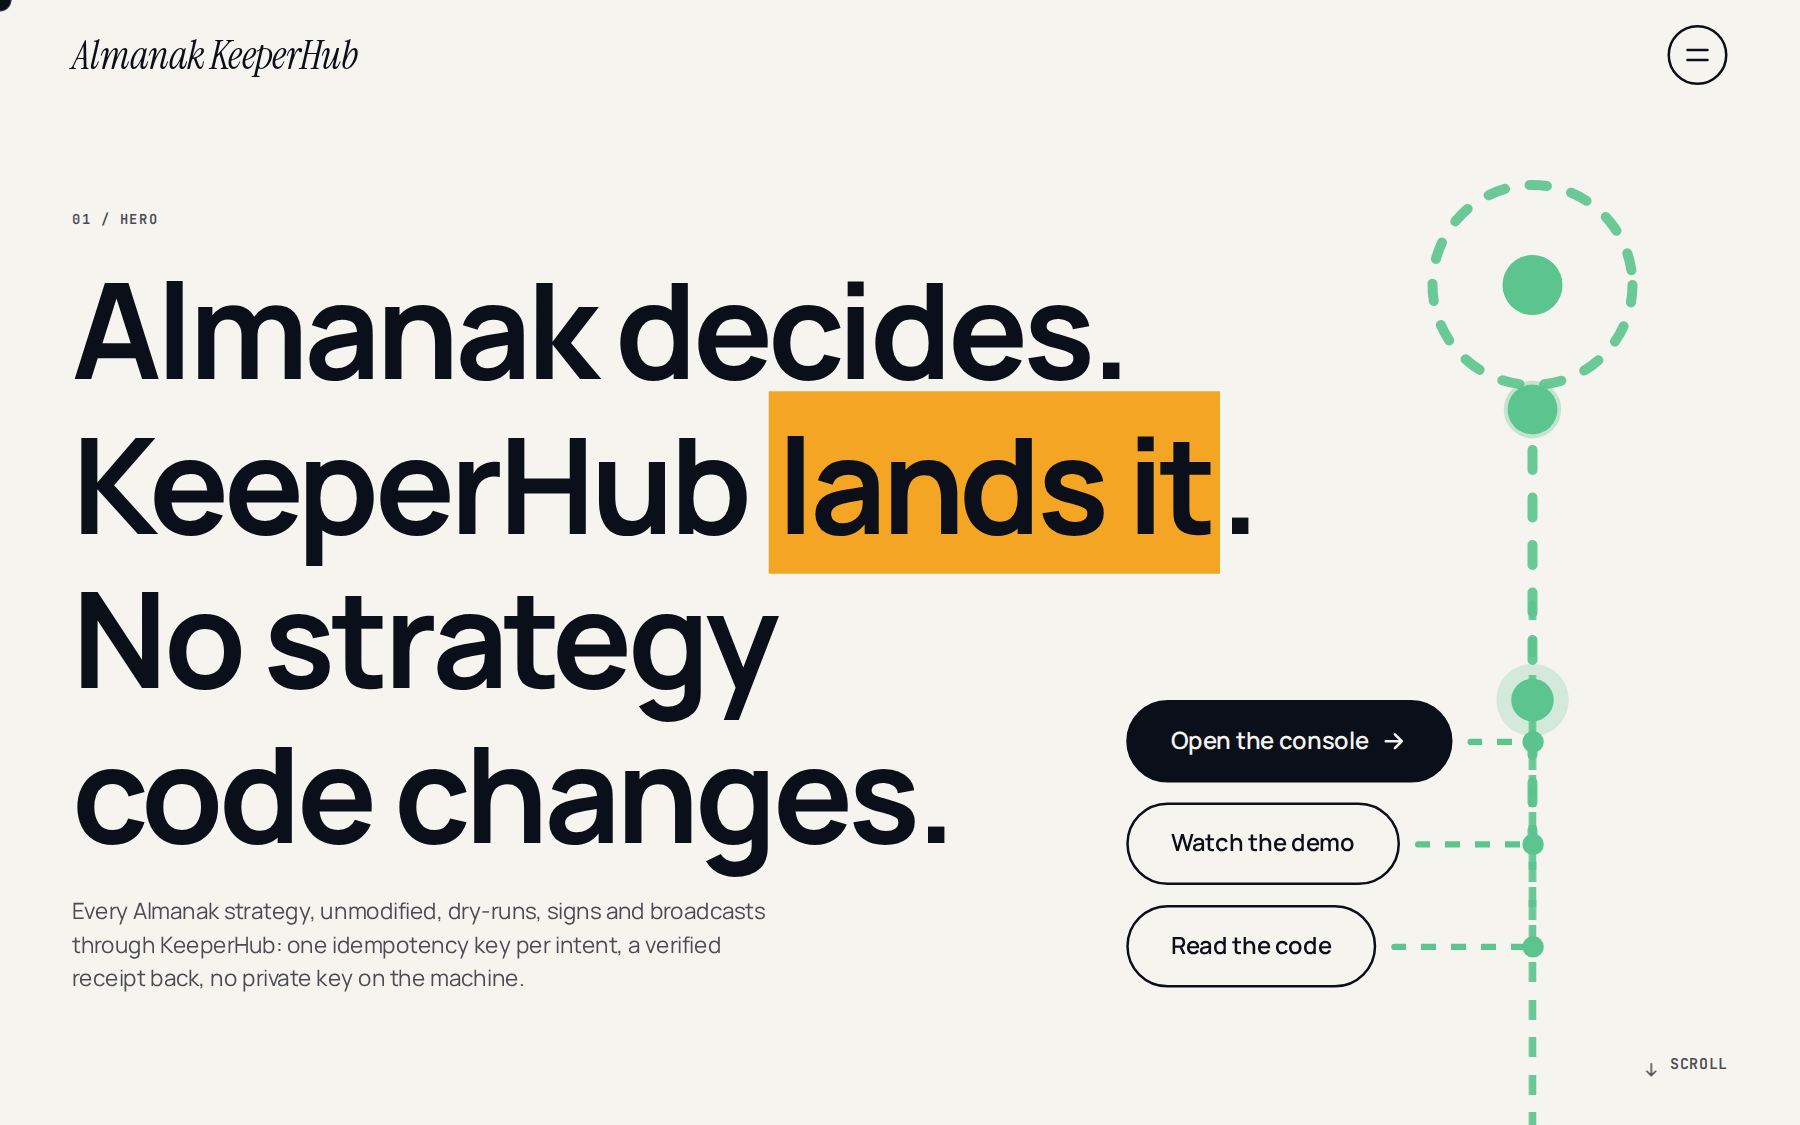
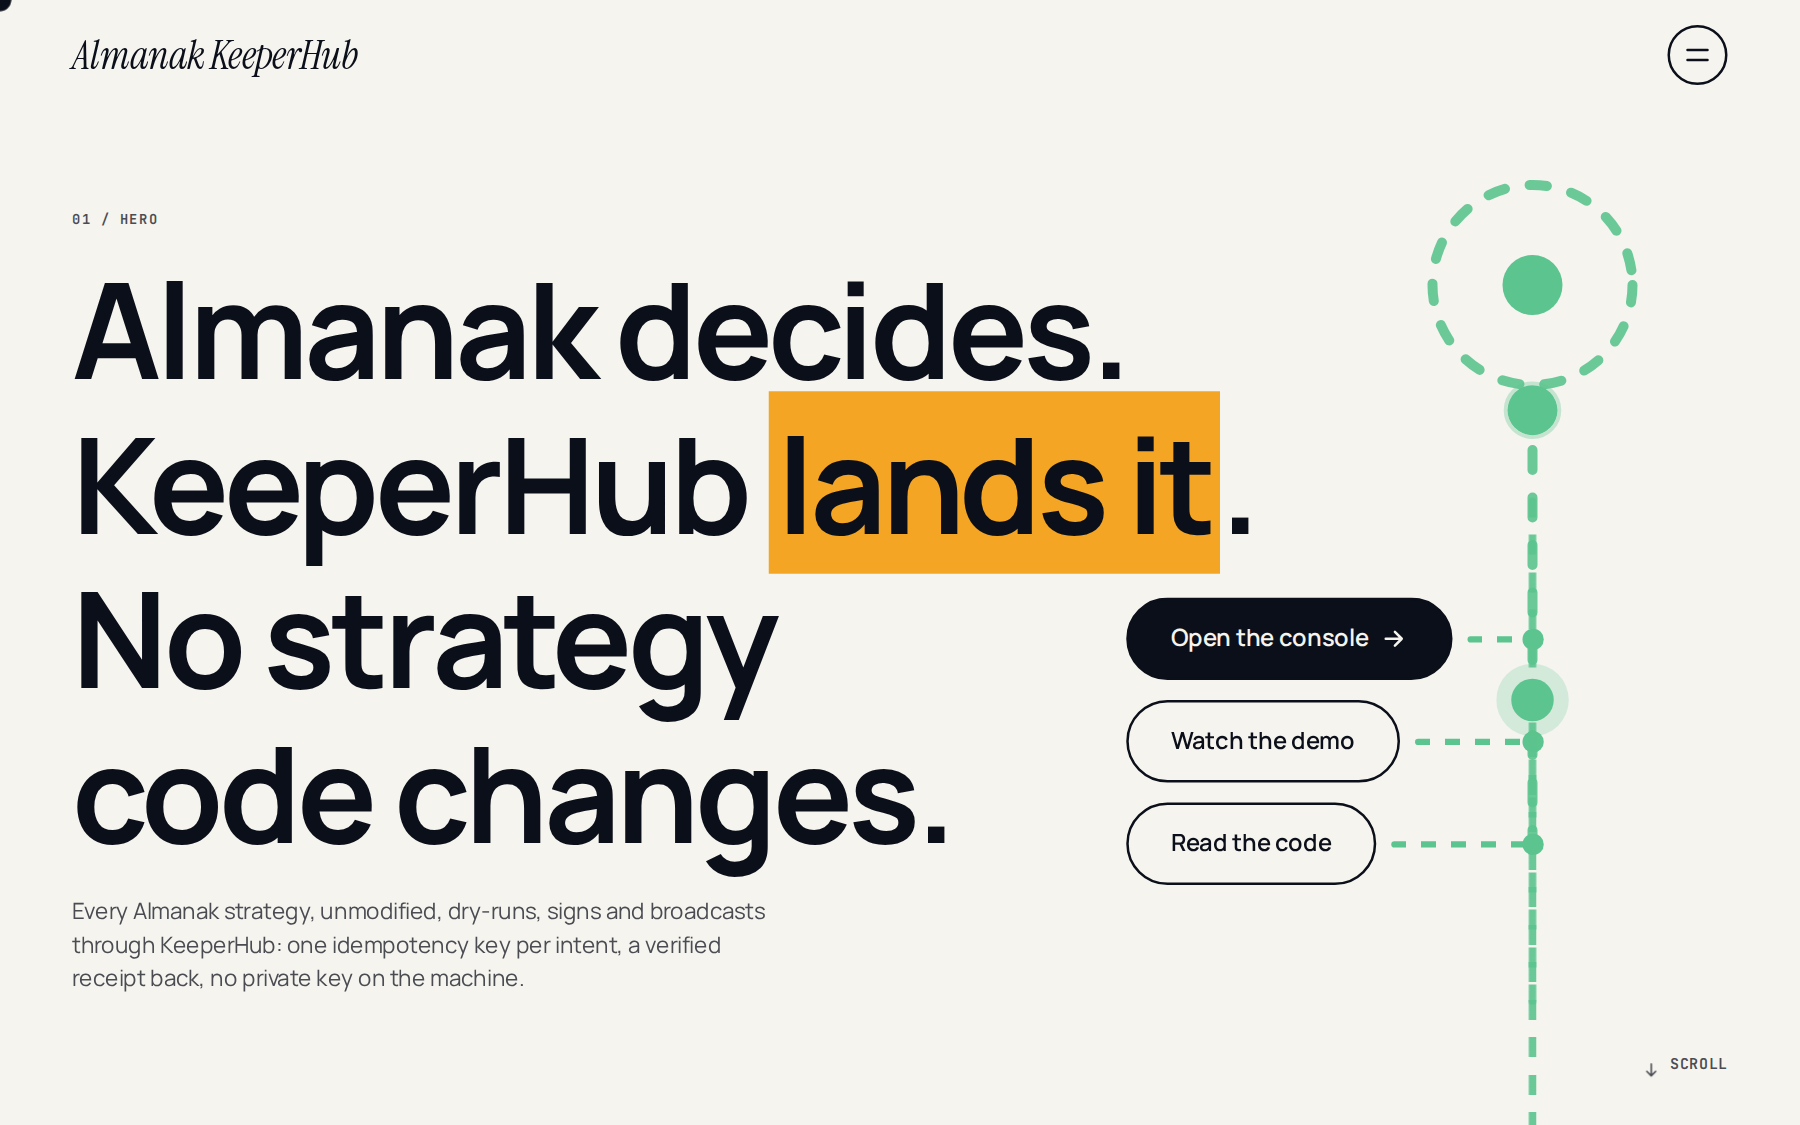
Hero buttons sit higher, clear of the fold on 768px-high screens
The stops block ends 88px above the lede's baseline instead of 6px, so the third button is on screen on a
1366x768 laptop, and the first button clears the headline's highlight at 1366 and 1440 wide. The hero's
track runs on below the buttons to meet the next section's. README hero and social image retaken.

Changed region(s): [[0.6222, 0.5289, 0.8711, 0.8089], [0.6533, 0.84, 0.7467, 0.8711], [0.84, 0.84, 0.8711, 0.8711]]

diff --git a/almanak_keeperhub/console/site.html b/almanak_keeperhub/console/site.html
@@ -225,8 +225,8 @@
   .hero .g{align-items:end}
   .hero .g>*{grid-row:1}
   .hero h1{max-width:none}
-  .hero .stops{grid-column:9/span 4;align-self:end;width:calc(63.2% + 56px);margin-left:-56px;display:flex;flex-direction:column;gap:16px;margin-bottom:6px;position:relative;z-index:1}
-  .hero .stops::before{content:"";position:absolute;right:-3px;top:-80px;bottom:22px;width:6px;border-radius:3px;background:repeating-linear-gradient(180deg,var(--mint) 0 16px,transparent 16px 30px);opacity:.9;z-index:-1}
+  .hero .stops{grid-column:9/span 4;align-self:end;width:calc(63.2% + 56px);margin-left:-56px;display:flex;flex-direction:column;gap:16px;margin-bottom:88px;position:relative;z-index:1}
+  .hero .stops::before{content:"";position:absolute;right:-3px;top:-80px;bottom:-96px;width:6px;border-radius:3px;background:repeating-linear-gradient(180deg,var(--mint) 0 16px,transparent 16px 30px);opacity:.9;z-index:-1}
   .hero .stop{display:flex;align-items:center}
   .hero .stop .btn{flex:0 0 auto;height:66px;padding:0 34px;font-size:19px;border-width:2.5px}
   .hero .stop .btn svg{width:22px;height:22px}

diff --git a/docs/index.html b/docs/index.html
@@ -225,8 +225,8 @@
   .hero .g{align-items:end}
   .hero .g>*{grid-row:1}
   .hero h1{max-width:none}
-  .hero .stops{grid-column:9/span 4;align-self:end;width:calc(63.2% + 56px);margin-left:-56px;display:flex;flex-direction:column;gap:16px;margin-bottom:6px;position:relative;z-index:1}
-  .hero .stops::before{content:"";position:absolute;right:-3px;top:-80px;bottom:22px;width:6px;border-radius:3px;background:repeating-linear-gradient(180deg,var(--mint) 0 16px,transparent 16px 30px);opacity:.9;z-index:-1}
+  .hero .stops{grid-column:9/span 4;align-self:end;width:calc(63.2% + 56px);margin-left:-56px;display:flex;flex-direction:column;gap:16px;margin-bottom:88px;position:relative;z-index:1}
+  .hero .stops::before{content:"";position:absolute;right:-3px;top:-80px;bottom:-96px;width:6px;border-radius:3px;background:repeating-linear-gradient(180deg,var(--mint) 0 16px,transparent 16px 30px);opacity:.9;z-index:-1}
   .hero .stop{display:flex;align-items:center}
   .hero .stop .btn{flex:0 0 auto;height:66px;padding:0 34px;font-size:19px;border-width:2.5px}
   .hero .stop .btn svg{width:22px;height:22px}
